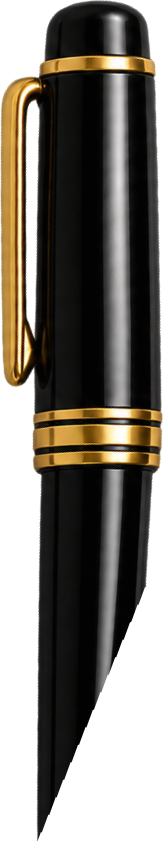
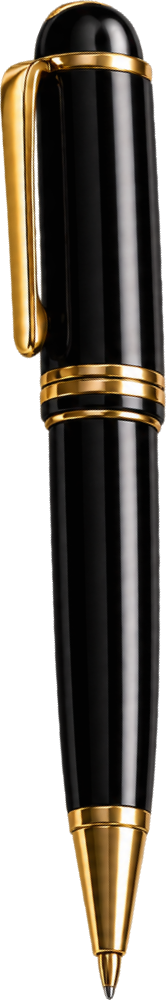
Re-extract falling items from pen.png, start fall right at SCROLL text
Re-extracted pen/pencil/marker cleanly from pen.png (no overlap
issues), spread them wider across the page during the fall while
still converging on the footer cup at the end. Fade-in now starts
almost immediately near the SCROLL indicator at the bottom of the
hero, instead of waiting a full page of scrolling.

diff --git a/src/components/FallingPencil.tsx b/src/components/FallingPencil.tsx
@@ -7,7 +7,8 @@ type ItemConfig = {
   src: string
   height: number
   aspect: number
-  xOffset: number
+  xOffsetStart: number
+  xOffsetEnd: number
   startYOffset: number
   fadeInDelay: number
   rotateFrom: number
@@ -22,8 +23,9 @@ const ITEMS: ItemConfig[] = [
   {
     src: '/falling-pen.png',
     height: TARGET_HEIGHT,
-    aspect: 841 / 163,
-    xOffset: -16,
+    aspect: 1000 / 166,
+    xOffsetStart: -320,
+    xOffsetEnd: -16,
     startYOffset: -20,
     fadeInDelay: 0,
     rotateFrom: -8,
@@ -34,8 +36,9 @@ const ITEMS: ItemConfig[] = [
   {
     src: '/falling-pencil.png',
     height: TARGET_HEIGHT,
-    aspect: 968 / 114,
-    xOffset: 0,
+    aspect: 946 / 115,
+    xOffsetStart: 0,
+    xOffsetEnd: 0,
     startYOffset: 25,
     fadeInDelay: 0.02,
     rotateFrom: -5,
@@ -46,8 +49,9 @@ const ITEMS: ItemConfig[] = [
   {
     src: '/falling-marker.png',
     height: TARGET_HEIGHT,
-    aspect: 911 / 251,
-    xOffset: 16,
+    aspect: 925 / 171,
+    xOffsetStart: 320,
+    xOffsetEnd: 16,
     startYOffset: -40,
     fadeInDelay: 0.04,
     rotateFrom: 7,
@@ -57,7 +61,7 @@ const ITEMS: ItemConfig[] = [
   },
 ]
 
-type Range = { startX: number; startY: number; endX: number; endY: number; pageFraction: number }
+type Range = { startX: number; startY: number; endX: number; endY: number }
 
 function FallingItem({
   item,
@@ -77,15 +81,15 @@ function FallingItem({
   const left = useTransform(
     scrollYProgress,
     [0, 1],
-    [range.startX + item.xOffset, range.endX + item.xOffset],
+    [range.startX + item.xOffsetStart, range.endX + item.xOffsetEnd],
   )
   const rotate = useTransform(
     scrollYProgress,
     [0, 0.5, 1],
     [item.rotateFrom, item.rotateMid, item.rotateTo],
   )
-  const fadeInStart = range.pageFraction + item.fadeInDelay
-  const fadeInEnd = fadeInStart + 0.05
+  const fadeInStart = 0.015 + item.fadeInDelay
+  const fadeInEnd = fadeInStart + 0.03
   const opacity = useTransform(
     scrollYProgress,
     [0, fadeInStart, fadeInEnd, item.fadeOutStart, 1],
@@ -132,9 +136,8 @@ export function FallingPencil() {
       const startY = heroRect.top + window.scrollY
       const endX = footerRect.left + footerRect.width / 2 + window.scrollX
       const endY = footerRect.top + window.scrollY - maxScrollY + footerRect.height * 0.2
-      const pageFraction = window.innerHeight / maxScrollY
 
-      setRange({ startX, startY, endX, endY, pageFraction })
+      setRange({ startX, startY, endX, endY })
     }
 
     measure()

diff --git a/src/components/sections/Hero.tsx b/src/components/sections/Hero.tsx
@@ -90,12 +90,6 @@ export function Hero({ settings }: { settings: SiteSettings }) {
             sizes="(min-width: 1024px) 46vw, 0px"
             className="object-contain"
           />
-          <span
-            id="hero-cup-anchor"
-            aria-hidden="true"
-            className="pointer-events-none absolute h-px w-px"
-            style={{ left: '14%', top: '31%' }}
-          />
         </motion.div>
       </div>
 
@@ -103,6 +97,7 @@ export function Hero({ settings }: { settings: SiteSettings }) {
         <span className="font-heading text-xs font-semibold tracking-[0.2em] text-navy/40">
           SCROLL
         </span>
+        <span id="hero-cup-anchor" aria-hidden="true" className="h-px w-px" />
       </div>
     </section>
   )
